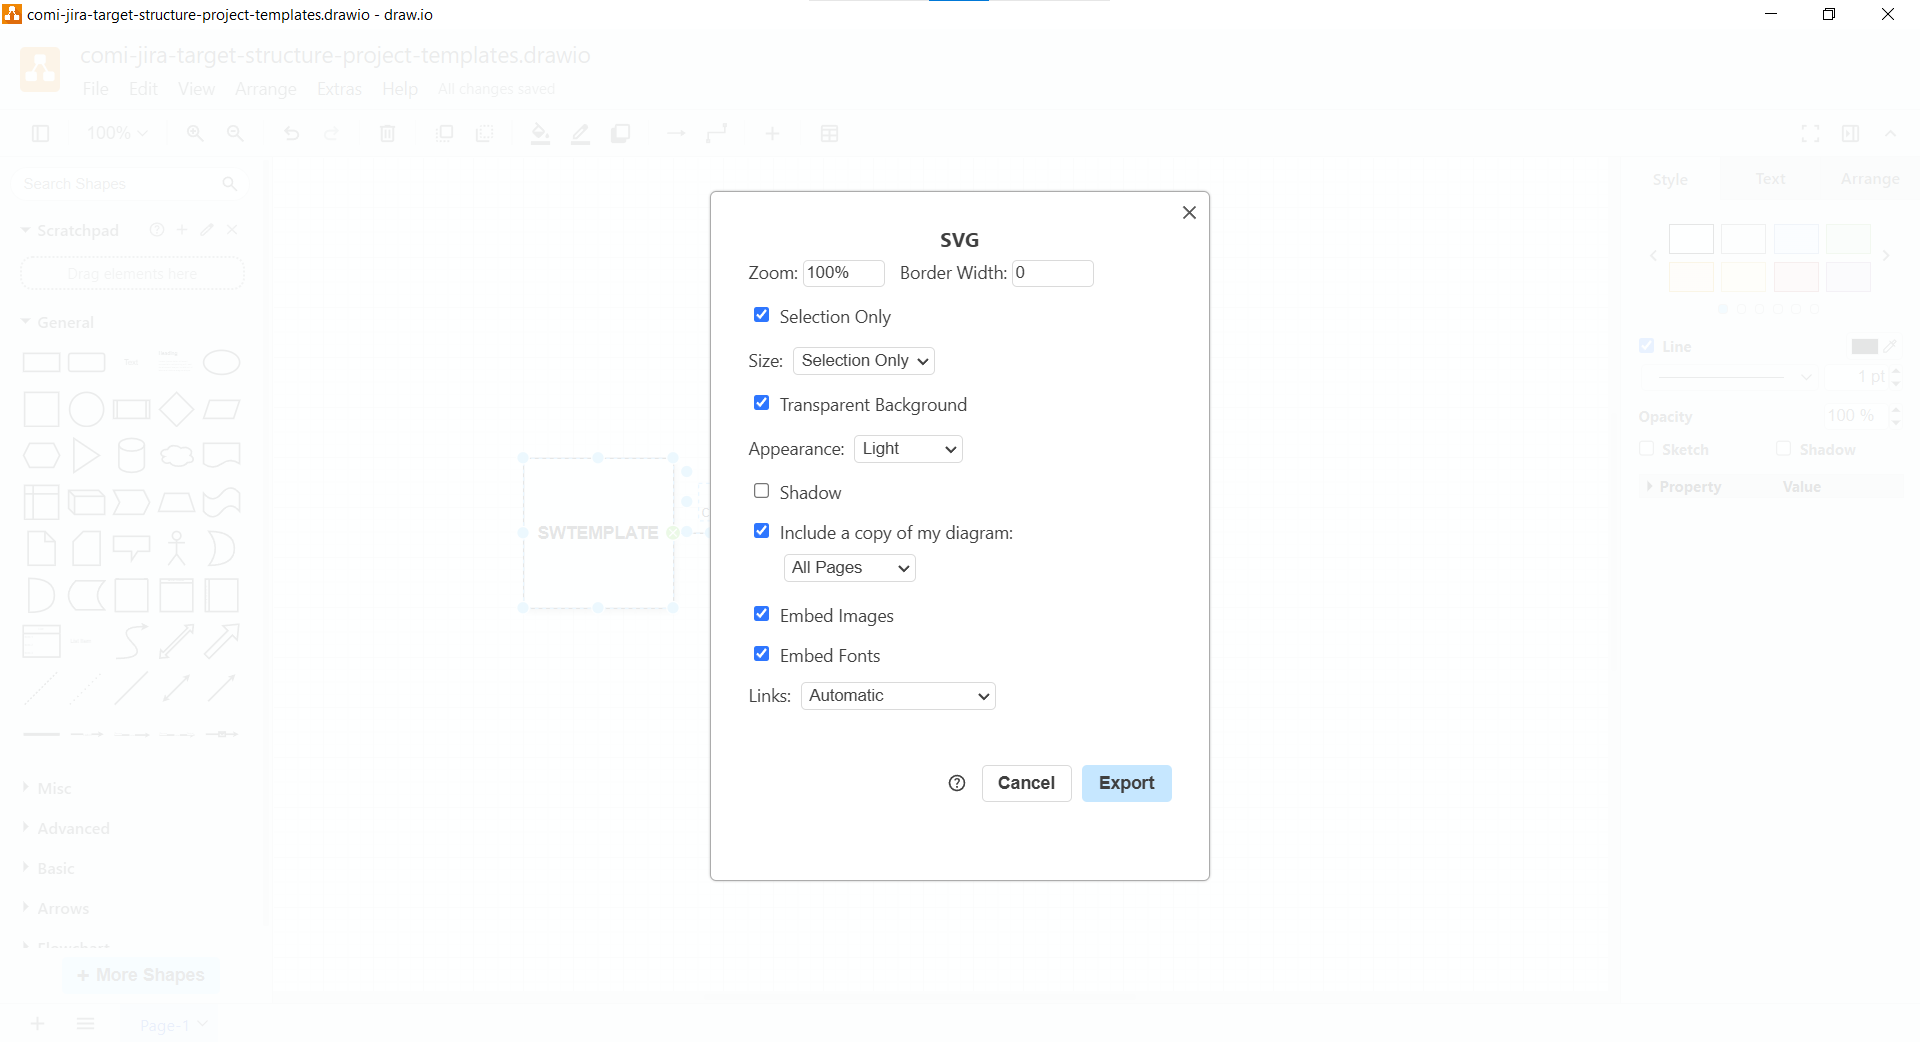
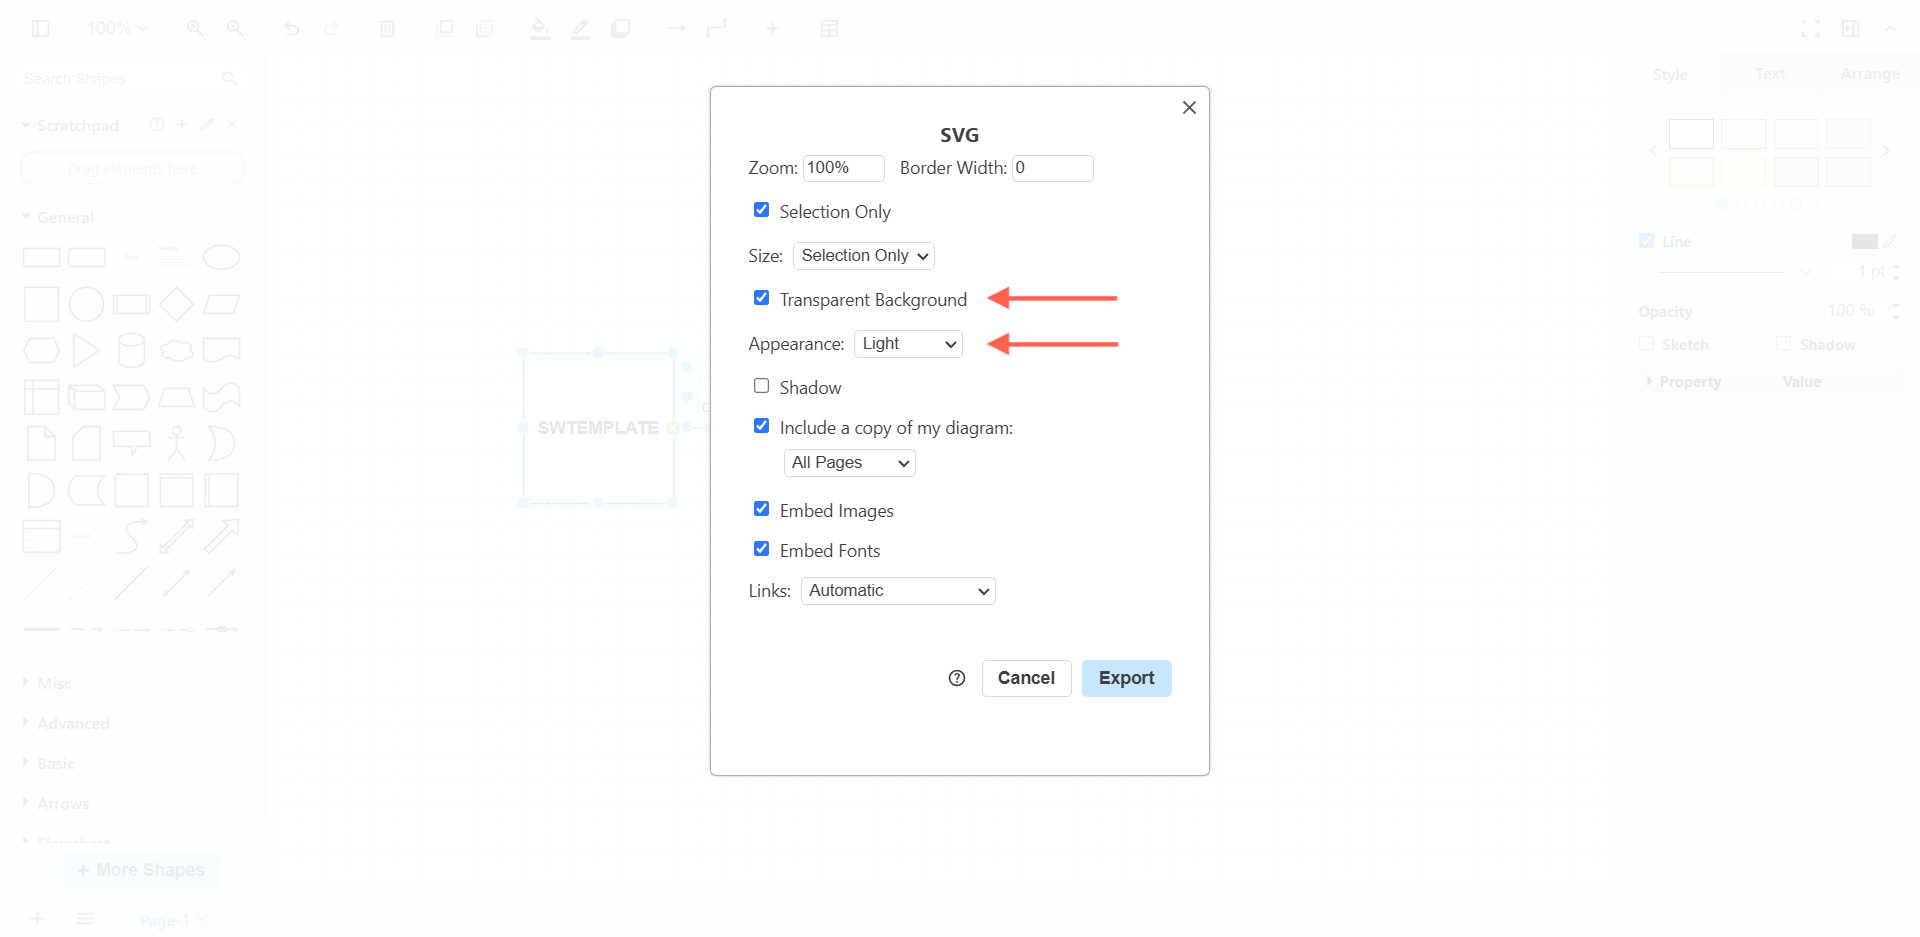
⚙ Sync from Windows

diff --git a/content/posts/reStructuredText Files to HTML, PDF and Confluence.md b/content/posts/reStructuredText Files to HTML, PDF and Confluence.md
@@ -4,8 +4,22 @@ title: reStructuredText Files to HTML, PDF and Confluence
 description: Create different output formats from one single reStructuredText files source
 draft: true
 tags:
-  - draft
+  - python
+  - sphinx
+  - confluence
+  - how-to
+  - doc-as-code
+  - documentation
+  - docker
 ---
+
+## Problem
+
+I need to provide training material in different output formats.
+
+## Solution
+
+We are going to use `.rst` files (basically plain text) as our single source of truth and generate our desired outputs. 
 
 ```
 .rst-files -> Sphinx
@@ -15,28 +29,81 @@ tags:
                 +-(confluencebuilder)-> Confluence
 ```
 
-- [Sphinx-SimplePDF — Sphinx-SimplePDF documentation](https://sphinx-simplepdf.readthedocs.io/en/latest/)
-- [Resolving the Python WeasyPrint Error: "Cannot Load Library 'gobject-2.0-0'" - YouTube](https://www.youtube.com/watch?v=dYR75vxY1ho&ab_channel=blogize)
+### Ingredients
 
----
+- [Python](https://www.python.org/)
+- [Sphinx](https://www.sphinx-doc.org)
+- [Sphinx-SimplePDF](https://sphinx-simplepdf.readthedocs.io/en/latest/)
+- [Sphinx Confluence Builder](https://sphinxcontrib-confluencebuilder.readthedocs.io)
+- [Docker](https://www.docker.com/)
 
-[GitHub Container Registry: BETTER Than Docker Hub? - YouTube](https://www.youtube.com/watch?v=WjzA9dfk5w4)
+### Initial Setup for Sphinx
 
-```
-ghcr.io/OWNER/IMAGE_NAME:version
-```
+Create a folder for your project and spin up a [virtual environment](https://docs.python.org/3/library/venv.html) for Python:
 
-[Push Docker Images to GitHub Container Registry - YouTube](https://www.youtube.com/watch?v=RgZyX-e6W9E)
-
-Ein personal access token verwenden, um uns in GitHub Packages (GHCR) einzuloggen.
-`Settings -> Developer Settings -> Personal access tokens -> Tokens (classic)`
-
-```
-docker login --username vladmueller --password <PASSWORD> ghcr.io
+```bash
+python3 -m venv venv
 ```
 
----
+Add all needed dependencies in a [requirements.txt](https://github.com/vladmueller/lab/blob/main/sphinx-simplepdf/requirements.txt) file and install them via `pip`:
 
-> [!important]- SVG Exports von draw.io müssen bestimmte Einstellungen haben
-> Sonst werden sie nur schwarz in der generierten PDF von simplepdf angezeigt 
+```bash
+source venv/bin/activate
+pip install -r requirements.txt
+```
+
+Initialise a new Sphinx documentation and **answer yes, if you are asked to split the source and build folder**: 
+
+```bash
+sphinx-quickstart
+```
+
+At this point, you should have a `source` folder containing your `.rst` files, and a `build` folder where the different output formats will be generated.
+
+### Generate HTML
+
+It is very simple to generate a HTML representation of your `.rst` files, just type:
+
+```bash
+make html
+```
+
+> [!TIP] Use [sphinx-autobuild](https://github.com/sphinx-doc/sphinx-autobuild) to dynamically build the html output on changes (hot reload).
+> 
+> Just add this target at the end of the `Makefile`:
+> 
+> ```
+> livehtml:
+>   sphinx-autobuild "$(SOURCEDIR)" "$(BUILDDIR)" $(SPHINXOPTS) $(O)
+> ```  
+> 
+> and type: `make livehtml` 
+   
+### Generate a PDF
+
+SimplePDF uses [WeasyPrint](https://weasyprint.org/) under the hood to generate a clean and good looking PDF from one single HTML file.
+
+```
+.rst files -(simplepdf builder)-> one single HTML file -(WeasyPrint)-> PDF
+```
+
+It is easy to integrate and to use in Sphinx, just type:
+
+```bash
+make simplepdf
+```
+
+### Publish to Confluence
+
+#todo 
+
+### Customisations
+
+#todo 
+
+### Problem with SVG images in generated PDF
+
+> [!important]- SVG exports from draw.io need to have specific settings
+>  otherwise they will appear completely black in the PDF generated by simplepdf. 
+> 
 > ![drawio-svg-compatible-settings-for-simplepdf.png](/images/drawio-svg-compatible-settings-for-simplepdf.png)
